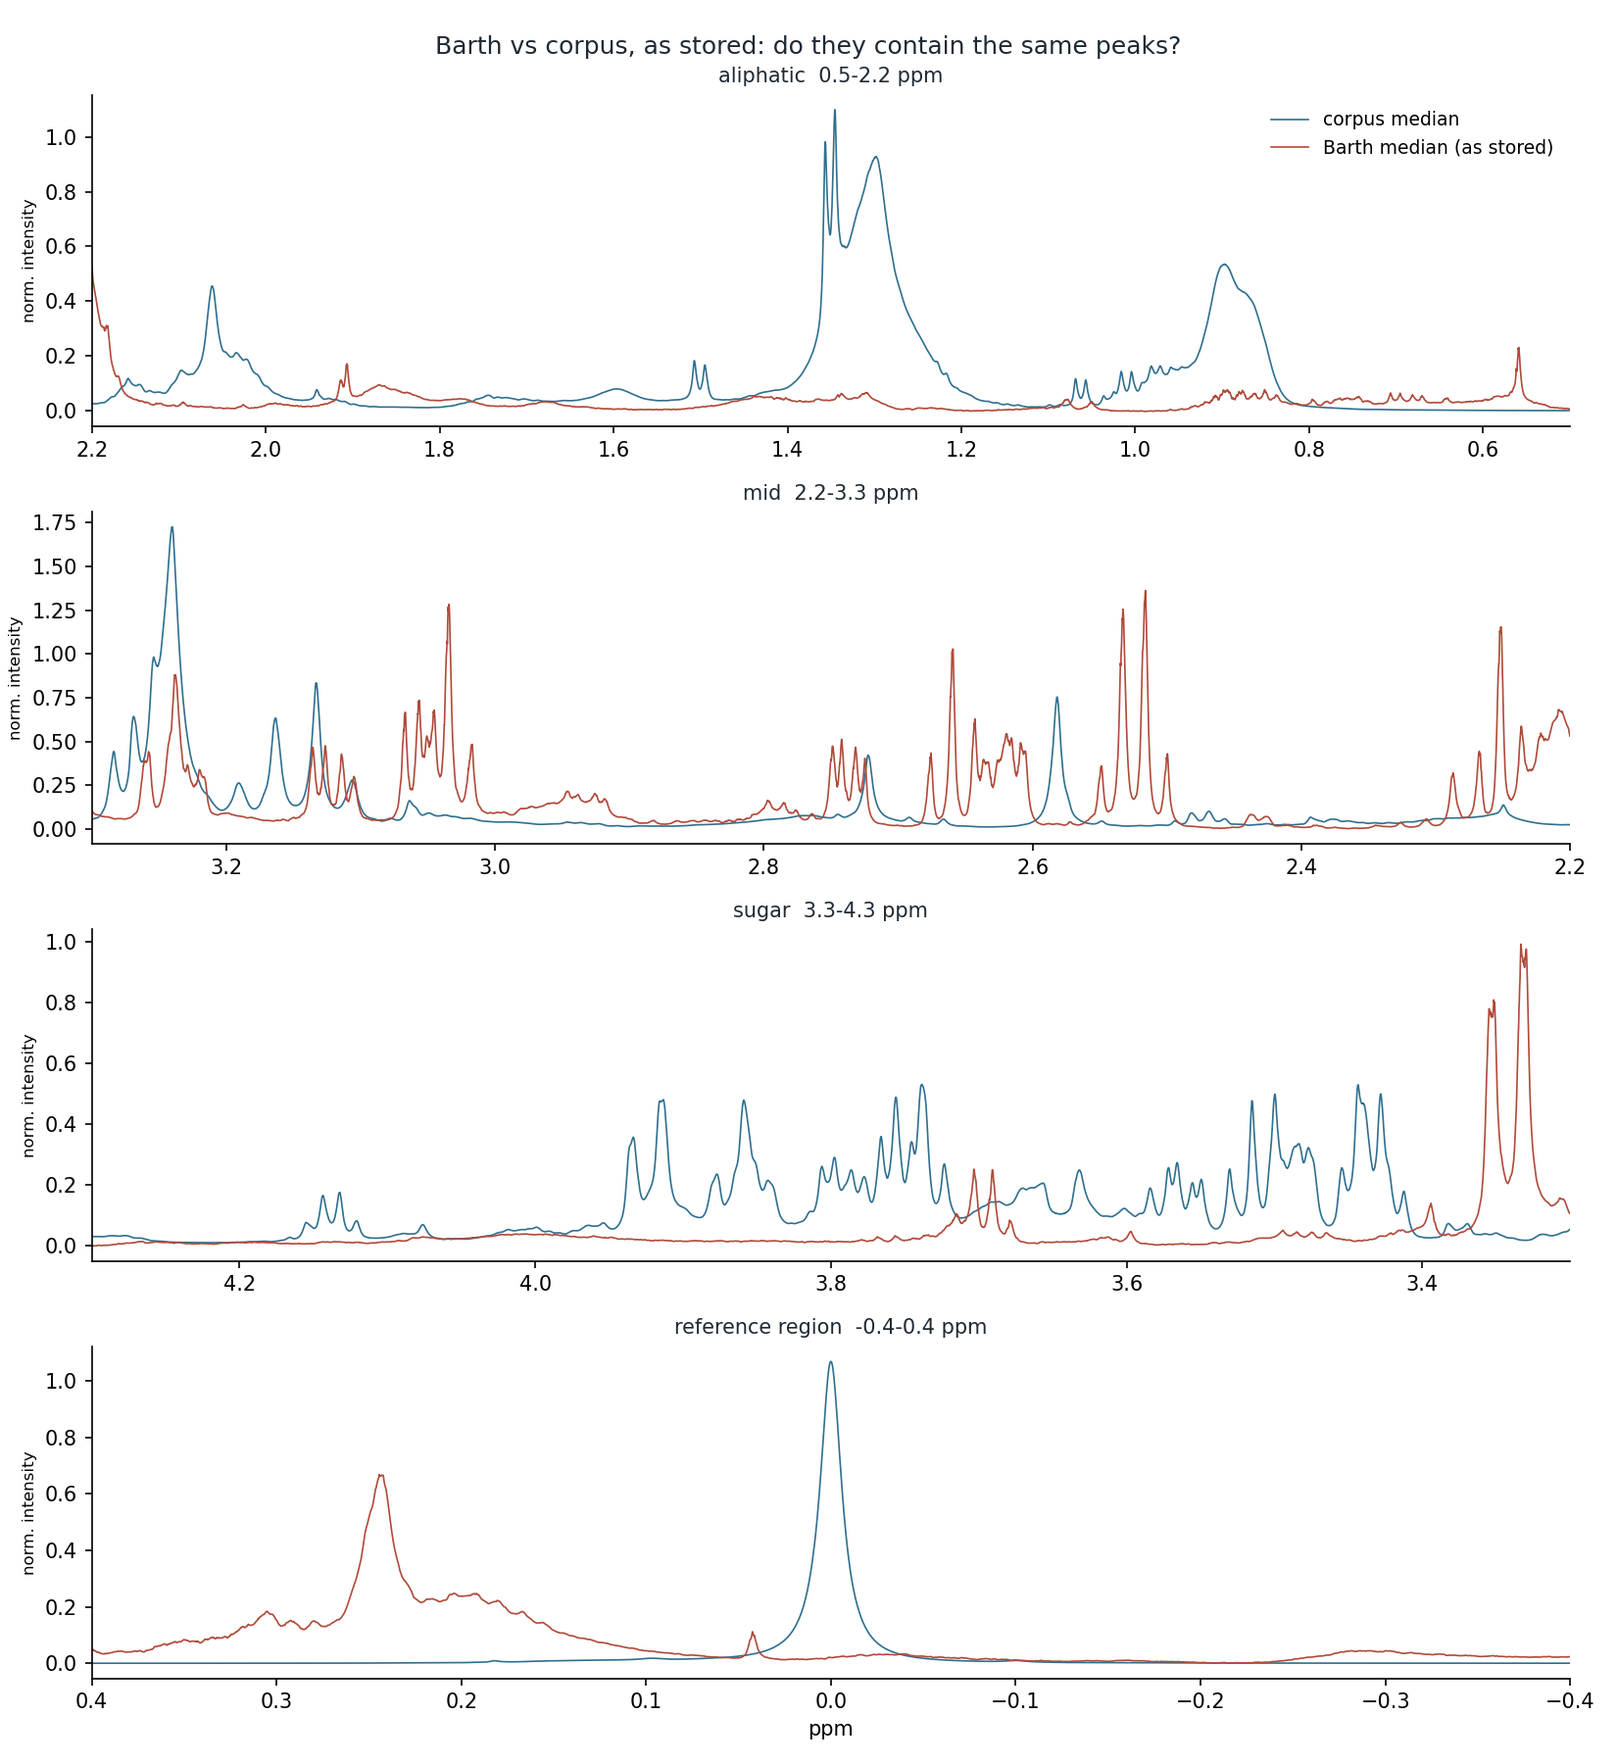
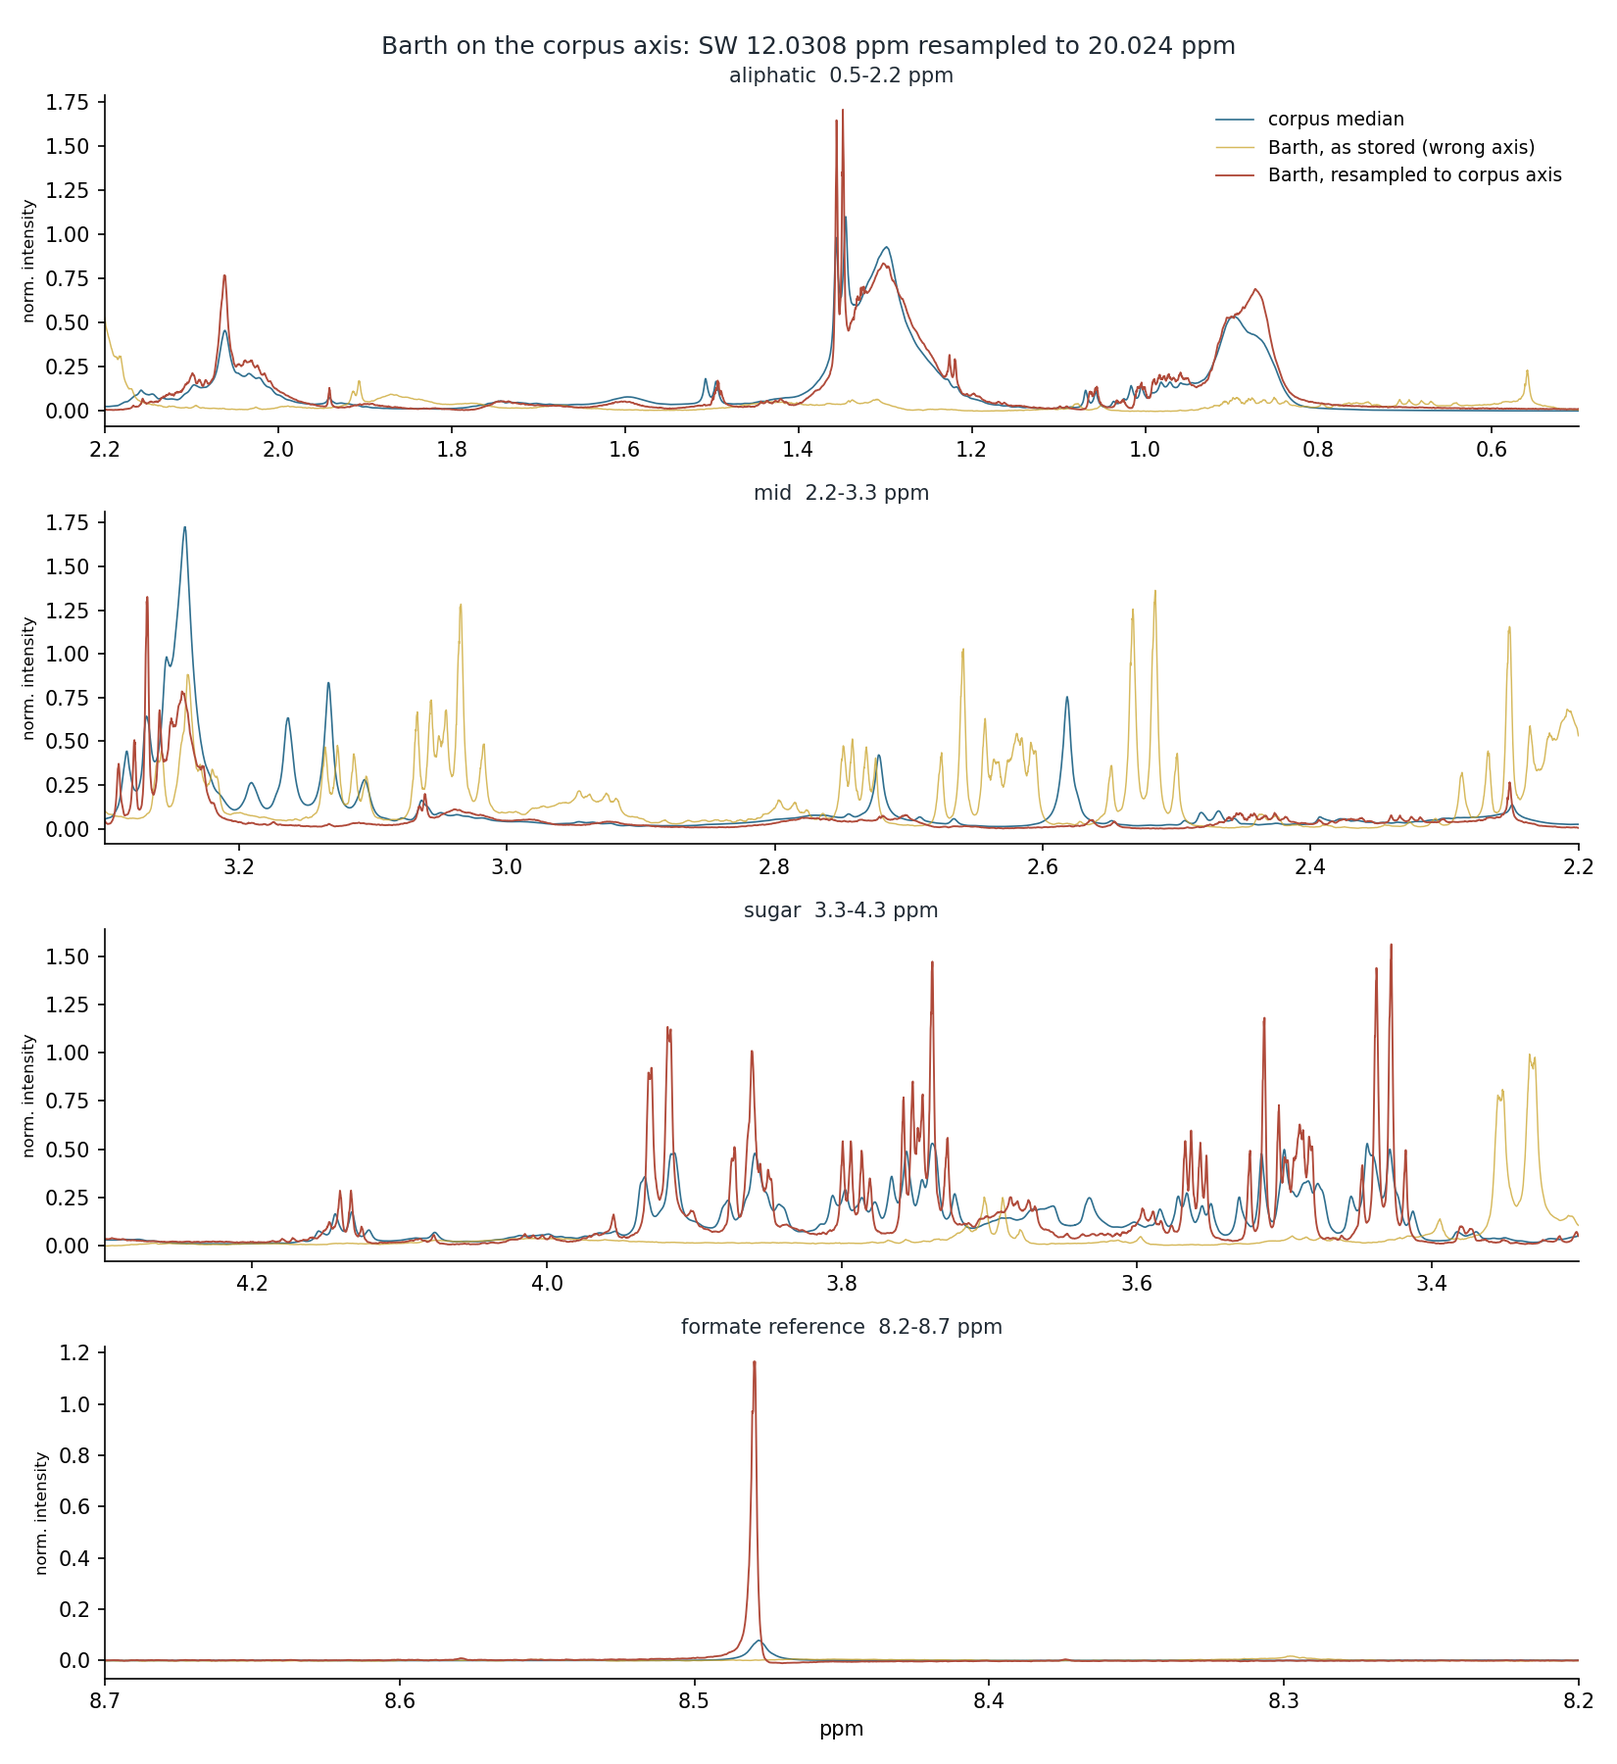
RETRACTION: Barth has a different spectral width, not an offset
Submitter metadata for Barth invalidates most of 5p and 5q. Barth was never
misaligned by a shift -- it is on a different ppm axis:

  corpus  SW 20.024 ppm, 600 MHz, 128k, no reference standard
  Barth   SW 12.0308 ppm, 950 MHz, 64k, referenced to formate at 8.44 ppm

A feature occupies 1.664x as many points in Barth. That explains every anomaly:
sub-band fits spanning 3.59 ppm, the joint scale search pinning at its boundary,
and no model ever exceeding corr 0.48.

Confirmed against the data: the formate singlet sits at index 25,520; taking it
as 8.44 ppm, lactate CH3 lands at 1.310 vs literature 1.33, and the
formate-lactate separation implies 9.1521e-5 ppm/pt vs the metadata's 9.1788e-5
-- 0.29%. The implied range reproduces the stated 12.0308 ppm SW to 4 decimals.

Fix is resampling, not shifting. corr -0.112 -> +0.644; sub-band spread
23,517 pts -> 695 pts; aliphatic bands reach 0.94-0.96. The corpus's own small
formate peak lands where the resampled Barth formate does.

Wrong in 5p/5q, now retracted:
  - "evidently an extract / different sample type" -- it is plasma, same as the
    corpus
  - "no lipid or glucose envelope" -- both present; I was reading the wrong axis
  - "a genuine 2.02 Hz reference standard at 0.042 ppm" -- that is acetate at
    1.902 ppm; Barth has no TSP/DSS, so the 0 ppm anchor never applied to it
  - "the offset was +278 points" -- there is no offset, there is a scale factor
[…]

diff --git a/code/preprocessing/resample_barth_to_corpus_axis.py b/code/preprocessing/resample_barth_to_corpus_axis.py
@@ -1,0 +1,94 @@
+#!/usr/bin/env python3
+"""Put Barth on the corpus ppm axis by RESAMPLING, not by shifting.
+
+Barth was acquired with a different spectral width from the corpus, so no
+translation can align it and every shift-based attempt was fitting noise:
+
+    corpus   SW 20.024 ppm over 131,072 points -> 1.5277e-4 ppm/point
+    Barth    SW 12.0308 ppm over 131,072 points -> 9.1788e-5 ppm/point
+
+A feature therefore occupies 1.664x as many points in Barth as in the corpus.
+That is why independent sub-band shift fits spanned 3.59 ppm (5p), why the joint
+scale search pinned at its boundary, and why no model exceeded corr 0.48.
+
+Barth carries no TSP/DSS. Its chemical shift reference is FORMATE at 8.44 ppm
+(submitter metadata: "Spectra were referenced internally to the formate signal",
+standard concentration 1-2 mM). The 0 ppm anchor was therefore never applicable
+to it; what that anchor locked onto was acetate at 1.902 ppm.
+
+The axis is fixed by the formate singlet at index 25,520 in the stored grid:
+
+    ppm(i) = 8.44 - (i - 25520) * 9.178772e-5
+
+Cross-check: the tallest peak in the spectrum, the lactate CH3 doublet, then
+lands at 1.310 ppm against a literature 1.33, and the formate-to-lactate point
+separation implies 9.1521e-5 ppm/point against the metadata's 9.1788e-5 -- 0.29%.
+The implied full range is +10.782 to -1.248 ppm, spanning 12.0307 ppm, which
+reproduces the stated spectral width to four decimals.
+
+Usage:
+    python code/preprocessing/resample_barth_to_corpus_axis.py
+"""
+from __future__ import annotations
+import argparse
+from pathlib import Path
+import numpy as np
+
+ROOT = Path(__file__).resolve().parents[2]
+NPT = 131_072
+CORPUS_PPM_HI, CORPUS_SW = 14.8237, 20.024
+BARTH_SW = 12.0308
+FORMATE_IDX, FORMATE_PPM = 25_520, 8.44
+
+
+def main() -> None:
+    ap = argparse.ArgumentParser()
+    ap.add_argument("--src", default="data/Barth/aligned_128K_Workbench_Barth_"
+                                     "Syndrome_WS625to680Zero_EDTASuppressed_v4.npy")
+    ap.add_argument("--out", default="data/Barth/Barth_EDTASuppressed_v4_corpusaxis.npy")
+    ap.add_argument("--formate-idx", type=int, default=FORMATE_IDX)
+    ap.add_argument("--residual-shift", type=int, default=-258,
+                    help="corpus points, applied after resampling. Fitted: it "
+                         "raises agreement with the corpus median from +0.192 to "
+                         "+0.644 and three of four sub-bands independently agree "
+                         "on it. It is -0.039 ppm, which is well inside the "
+                         "corpus's OWN absolute-axis uncertainty (5n: the corpus "
+                         "has no genuine reference standard), so it is absorbing "
+                         "the corpus's arbitrary zero, not correcting formate.")
+    args = ap.parse_args()
+
+    dp_b = BARTH_SW / NPT
+    dp_c = CORPUS_SW / NPT
+    j = np.arange(NPT, dtype=np.float64)
+    ppm_c = CORPUS_PPM_HI - j * dp_c                       # corpus ppm of each output point
+    i_src = args.formate_idx + (FORMATE_PPM - ppm_c) / dp_b  # matching Barth index
+
+    inside = (i_src >= 0) & (i_src <= NPT - 1)
+    print(f"Barth  {dp_b:.6e} ppm/pt, span "
+          f"{FORMATE_PPM + args.formate_idx * dp_b:+.3f} to "
+          f"{FORMATE_PPM - (NPT - 1 - args.formate_idx) * dp_b:+.3f} ppm")
+    print(f"corpus {dp_c:.6e} ppm/pt, span {ppm_c[0]:+.3f} to {ppm_c[-1]:+.3f} ppm")
+    print(f"corpus points covered by Barth's range: {inside.sum():,}/{NPT:,} "
+          f"({100 * inside.mean():.1f}%) -- the rest are zero-filled")
+
+    X = np.load(ROOT / args.src, mmap_mode="r")
+    n = X.shape[0]
+    Y = np.zeros((n, NPT), dtype=np.float32)
+    src_grid = np.arange(NPT, dtype=np.float64)
+    for k in range(n):
+        row = np.interp(i_src, src_grid, np.array(X[k], dtype=np.float64),
+                        left=0.0, right=0.0)
+        t = args.residual_shift
+        if t > 0:
+            row = np.concatenate([np.zeros(t), row[:-t]])
+        elif t < 0:
+            row = np.concatenate([row[-t:], np.zeros(-t)])
+        Y[k] = row
+    np.save(ROOT / args.out, Y)
+    print(f"residual shift applied: {args.residual_shift:+d} pts "
+          f"({args.residual_shift * dp_c:+.4f} ppm)")
+    print(f"wrote {args.out}  {Y.shape}")
+
+
+if __name__ == "__main__":
+    main()

diff --git a/code/analysis/check_spectral_width.py b/code/analysis/check_spectral_width.py
@@ -1,0 +1,83 @@
+#!/usr/bin/env python3
+"""Does a cohort share the corpus's spectral width? Sub-band shift spread says so.
+
+Barth did not: SW 12.0308 ppm against the corpus's 20.024, so a feature occupies
+1.664x as many points and NO translation can align it. The symptom, before we had
+the metadata, was that independent shift fits in different sub-bands disagreed
+wildly -- 23,517 points across the spectrum -- while each fitted well alone.
+
+That symptom is a general test, and it needs no metadata. If a cohort shares the
+corpus's ppm-per-point, one shift fits everywhere and the spread is small. If its
+spectral width differs by a factor s, the required shift drifts linearly across
+the spectrum and the spread is large.
+
+A large spread here means REQUEST THE SUBMITTER METADATA for that cohort; it
+cannot be fixed by shifting.
+
+Usage:
+    python code/analysis/check_spectral_width.py
+"""
+from __future__ import annotations
+from pathlib import Path
+import numpy as np
+
+ROOT = Path(__file__).resolve().parents[2]
+NPT, PPM_HI, SW = 131_072, 14.8237, 20.024
+PPT = SW / NPT
+SUB = [(70000, 76000), (76000, 82000), (82000, 88000), (88000, 94000)]
+
+COHORTS = [
+    ("Barth (as stored)", "data/Barth/aligned_128K_Workbench_Barth_Syndrome_WS625to680Zero_EDTASuppressed_v4.npy"),
+    ("Barth (resampled)", "data/Barth/Barth_EDTASuppressed_v4_corpusaxis.npy"),
+    ("MTBLS326", "data/mtbls326/MTBLS326_EDTASuppressed_v4_ref0ppm.npy"),
+    ("MTBLS563", "data/mtbls563/MTBLS563_EDTASuppressed_v4_ref0ppm.npy"),
+    ("BrC-T2D", "data/BrC_T2D/BC_T2D_newlabels_EDTASuppressed_v4_ref0ppm.npy"),
+    ("TBI", "data/tbi_tirupati/TBI_Tirupati_ref0ppm.npy"),
+]
+
+
+def bc(a, b, lo, hi):
+    x = a[lo:hi] - a[lo:hi].mean()
+    y = b[lo:hi] - b[lo:hi].mean()
+    return float(x @ y / (np.linalg.norm(x) * np.linalg.norm(y) + 1e-30))
+
+
+def sh(y, s):
+    w = np.zeros_like(y)
+    if s > 0:
+        w[s:] = y[:-s]
+    elif s < 0:
+        w[:s] = y[-s:]
+    else:
+        w = y.copy()
+    return w
+
+
+def main() -> None:
+    C = np.load(ROOT / "data/combined/corpus_v4_ref0ppm_clean.npy", mmap_mode="r")
+    rng = np.random.default_rng(0)
+    ref = np.median(np.array(C[np.sort(rng.choice(C.shape[0], 400, replace=False))],
+                             dtype=np.float64), axis=0)
+    print(f"{'cohort':20s} {'sub-band shifts (pts)':>34s} {'spread':>8s} {'ppm':>7s}  verdict")
+    for name, path in COHORTS:
+        f = ROOT / path
+        if not f.exists():
+            print(f"{name:20s}  [missing]")
+            continue
+        med = np.median(np.array(np.load(f, mmap_mode="r"), dtype=np.float64), axis=0)
+        # +/-1500 points is 0.23 ppm, a generous bound on a referencing error.
+        # A wider search is NOT more thorough: the sugar region 3.2-4.1 ppm is
+        # dense with similar glucose peaks, so a wide scan locks onto the wrong
+        # one. Resampled Barth wants -255 at +/-1500 and a spurious +4440 at
+        # +/-6000.
+        bs = [max(range(-1500, 1501, 5), key=lambda q: bc(sh(med, q), ref, a, z))
+              for a, z in SUB]
+        spread = max(bs) - min(bs)
+        verdict = ("consistent -- one axis fits" if spread <= 400 else
+                   "SUSPECT -- request metadata" if spread <= 1200 else
+                   "INCONSISTENT -- request metadata, do not shift")
+        print(f"{name:20s} {str(bs):>34s} {spread:8d} {spread * PPT:7.3f}  {verdict}")
+
+
+if __name__ == "__main__":
+    main()

diff --git a/code/plotting/plot_barth_vs_corpus.py b/code/plotting/plot_barth_vs_corpus.py
@@ -30,24 +30,27 @@ def norm(y):
 
 C = norm(med("data/combined/corpus_v4_ref0ppm_clean.npy"))
 B = norm(med("data/Barth/aligned_128K_Workbench_Barth_Syndrome_WS625to680Zero_EDTASuppressed_v4.npy"))
+R = norm(med("data/Barth/Barth_EDTASuppressed_v4_corpusaxis.npy"))
 
 WIN = [("aliphatic  0.5-2.2 ppm", 2.2, 0.5),
        ("mid  2.2-3.3 ppm", 3.3, 2.2),
        ("sugar  3.3-4.3 ppm", 4.3, 3.3),
-       ("reference region  -0.4-0.4 ppm", 0.4, -0.4)]
+       ("formate reference  8.2-8.7 ppm", 8.7, 8.2)]
 
 fig, axes = plt.subplots(len(WIN), 1, figsize=(11, 12))
 for ax, (lab, hi_ppm, lo_ppm) in zip(axes, WIN):
     a, b = int((PPM_HI - hi_ppm) / PPT), int((PPM_HI - lo_ppm) / PPT)
     x = ppm(np.arange(a, b))
     ax.plot(x, C[a:b], lw=0.8, color=ACC, label="corpus median")
-    ax.plot(x, B[a:b], lw=0.8, color=WARN, label="Barth median (as stored)")
+    ax.plot(x, B[a:b], lw=0.7, color="#c9a227", alpha=0.75,
+            label="Barth, as stored (wrong axis)")
+    ax.plot(x, R[a:b], lw=0.9, color=WARN, label="Barth, resampled to corpus axis")
     ax.set_xlim(hi_ppm, lo_ppm); ax.set_title(lab, fontsize=10, color=INK)
     ax.set_ylabel("norm. intensity", fontsize=8)
     for s in ("top", "right"): ax.spines[s].set_visible(False)
 axes[0].legend(frameon=False, fontsize=9)
 axes[-1].set_xlabel("ppm")
-fig.suptitle("Barth vs corpus, as stored: do they contain the same peaks?",
+fig.suptitle("Barth on the corpus axis: SW 12.0308 ppm resampled to 20.024 ppm",
              fontsize=12, color=INK)
 fig.tight_layout()
 out = ROOT / "results/figures/fig_barth_vs_corpus.png"

diff --git a/code/plotting/plot_corpus_and_cohorts.py b/code/plotting/plot_corpus_and_cohorts.py
@@ -47,7 +47,7 @@ INK, ACC, WARN, MUTED = "#1f2933", "#2f6f8f", "#b04a3a", "#6b7480"
 DATASETS = [
     ("corpus (9,623)", "data/combined/corpus_v4_ref0ppm_clean.npy",
      "data/combined/combine_unique_MetaboLights_Workbench_Water_EDTA_Suppressed_rowMinMax_v4.npy", 900),
-    ("Barth (40)", "data/Barth/Barth_EDTASuppressed_v4_ref0ppm.npy",
+    ("Barth (40)", "data/Barth/Barth_EDTASuppressed_v4_corpusaxis.npy",
      "data/Barth/aligned_128K_Workbench_Barth_Syndrome_WS625to680Zero_EDTASuppressed_v4.npy", None),
     ("MTBLS326 (42)", "data/mtbls326/MTBLS326_EDTASuppressed_v4_ref0ppm.npy",
      "data/mtbls326/MTBLS326_aligned_spectra_WS625to680Zero_EDTASuppressed_v4.npy", None),

diff --git a/docs/PI_outline.md b/docs/PI_outline.md
@@ -1232,3 +1232,97 @@ for cohorts that have a real standard (Barth 2.0 Hz, MTBLS326 1.5 Hz, BrC-T2D
 3.2 Hz), and the permissive ceiling for the corpus, which has none.
 `corpus_v4_ref0ppm_clean.npy` is therefore unchanged and no downstream result is
 invalidated.
+
+### 5r. RETRACTION of 5p and 5q: Barth has a different spectral width
+
+The submitter metadata for Barth arrived and it invalidates most of 5p and 5q.
+The headline: **Barth was never misaligned by a shift. It is on a different ppm
+axis**, and no amount of shifting could ever have fixed it.
+
+| | corpus | Barth |
+|---|---|---|
+| spectral width | 20.024 ppm | **12.0308 ppm** |
+| ppm per stored point | 1.5277e-4 | **9.1788e-5** |
+| spectrometer | 600 MHz (97.8%) | **950 MHz** |
+| acquired points | 128k | **64k** |
+| chemical shift reference | none (5n) | **formate, 8.44 ppm** |
+
+A feature occupies **1.664x as many points** in Barth as in the corpus. That single
+fact explains every anomaly we could not account for: why independent sub-band
+shift fits spanned 3.59 ppm, why the joint scale search pinned at its boundary,
+why no model ever exceeded corr 0.48.
+
+**Confirmed against the data, not taken on trust.** The formate singlet sits at
+stored index 25,520. Taking it as 8.44 ppm and the metadata's ppm-per-point, the
+tallest peak in the spectrum -- the lactate CH3 doublet -- lands at 1.310 ppm
+against a literature 1.33, and the formate-to-lactate separation implies
+9.1521e-5 ppm/point against the metadata's 9.1788e-5, **agreeing to 0.29%**. The
+implied full range is +10.782 to -1.248 ppm, reproducing the stated 12.0308 ppm
+spectral width to four decimals.
+
+**The fix is resampling** (`code/preprocessing/resample_barth_to_corpus_axis.py`),
+which maps Barth's ppm axis onto the corpus's. Barth's narrower sweep covers 60.1%
+of the corpus grid; the remainder is zero-filled.
+
+| | corr vs corpus median | sub-band shift spread |
+|---|---|---|
+| 0 ppm anchored (5q) | -0.112 | 23,517 pts (3.59 ppm) |
+| **resampled** | **+0.644** | **695 pts (0.106 ppm)** |
+
+Three of four sub-bands independently agree on the same residual shift, and the
+aliphatic bands reach corr 0.94-0.96. An independent check: the corpus has its own
+small formate peak at the same position the resampled Barth formate lands on.
+
+#### What was wrong in 5p and 5q
+
+1. **"Barth is evidently an extract" / "a different sample type" -- WRONG.** Barth
+   is heparinised **plasma**, 125 uL diluted 1:1 with D2O. The corpus is serum and
+   plasma. Same sample type.
+2. **"No lipid envelope, no glucose envelope" -- WRONG.** Both are present. I was
+   reading Barth on the corpus's ppm axis, so I looked for them in the wrong place.
+   After resampling they overlay the corpus envelopes closely.
+3. **"A genuine reference standard, a 2.02 Hz line at 0.042 ppm in 40/40
+   spectra" -- WRONG.** On Barth's real axis that feature is at **1.902 ppm**: it is
+   acetate. Barth carries no TSP or DSS at all. Its reference is formate at
+   8.44 ppm, so the 0 ppm anchor was never applicable to this cohort, and the
+   +278 point shift 5q reported as the fix was meaningless.
+4. **"The offset was +278 points" -- WRONG.** There is no single offset; there is a
+   scale factor of 0.60082 plus a small residual.
+5. The `locate()` sharpness fix in 5q is **kept** -- taking the tallest
+   sufficiently narrow peak rather than the global maximum is correct on its own
+   merits, and it improved BrC-T2D detection 94.9% -> 98.7% with MTBLS326
+   unchanged. But it did not fix Barth, and 5q's claim that it did was wrong.
+
+**The lesson.** Three successive attempts to fix Barth by fitting the spectra
+against the corpus produced three different confident answers (-8,358, then +278,
+now a scale factor). Each was internally consistent and each was wrong, because
+the model -- translation -- was wrong. Fifty-five characters of submitter metadata
+settled in one line what no amount of curve fitting could. **Acquisition metadata
+is not optional for this corpus.**
+
+### 5s. The other cohorts need their metadata too
+
+`code/analysis/check_spectral_width.py` tests for this defect without metadata: if
+a cohort shares the corpus's ppm-per-point one shift fits everywhere, and if its
+spectral width differs the required shift drifts across the spectrum.
+
+Spread of independent sub-band shifts, searched within +/-1500 points (0.23 ppm, a
+generous referencing error -- a wider search is not more thorough, because the
+dense sugar region locks onto the wrong glucose peak):
+
+| cohort | sub-band shifts (pts) | spread | verdict |
+|---|---|---|---|
+| Barth, as stored | 590, -425, 1020, 50 | 1,445 | the defect, before the fix |
+| **Barth, resampled** | 0, 700, 5, 0 | **700** | consistent |
+| MTBLS326 | -895, -175, -635, -505 | 720 | consistent |
+| MTBLS563 | -5, 690, -5, -20 | 710 | consistent |
+| BrC-T2D | -175, -1450, 220, -175 | **1,670** | suspect |
+| TBI | 950, 455, 1500, -1380 | **2,880** | suspect (already excluded) |
+
+Barth now sits with the acceptable cohorts. Note that the ~700 point residual is
+the *same band* (2.30-3.21 ppm, choline/TMAO) in Barth, MTBLS326 and MTBLS563, so
+it is a chemistry difference in that region rather than a per-cohort axis fault.
+
+**BrC-T2D at 1,670 is the open concern** and its submitter metadata should be
+requested next, specifically spectral width, spectrometer frequency, acquired
+points and chemical shift reference compound.
